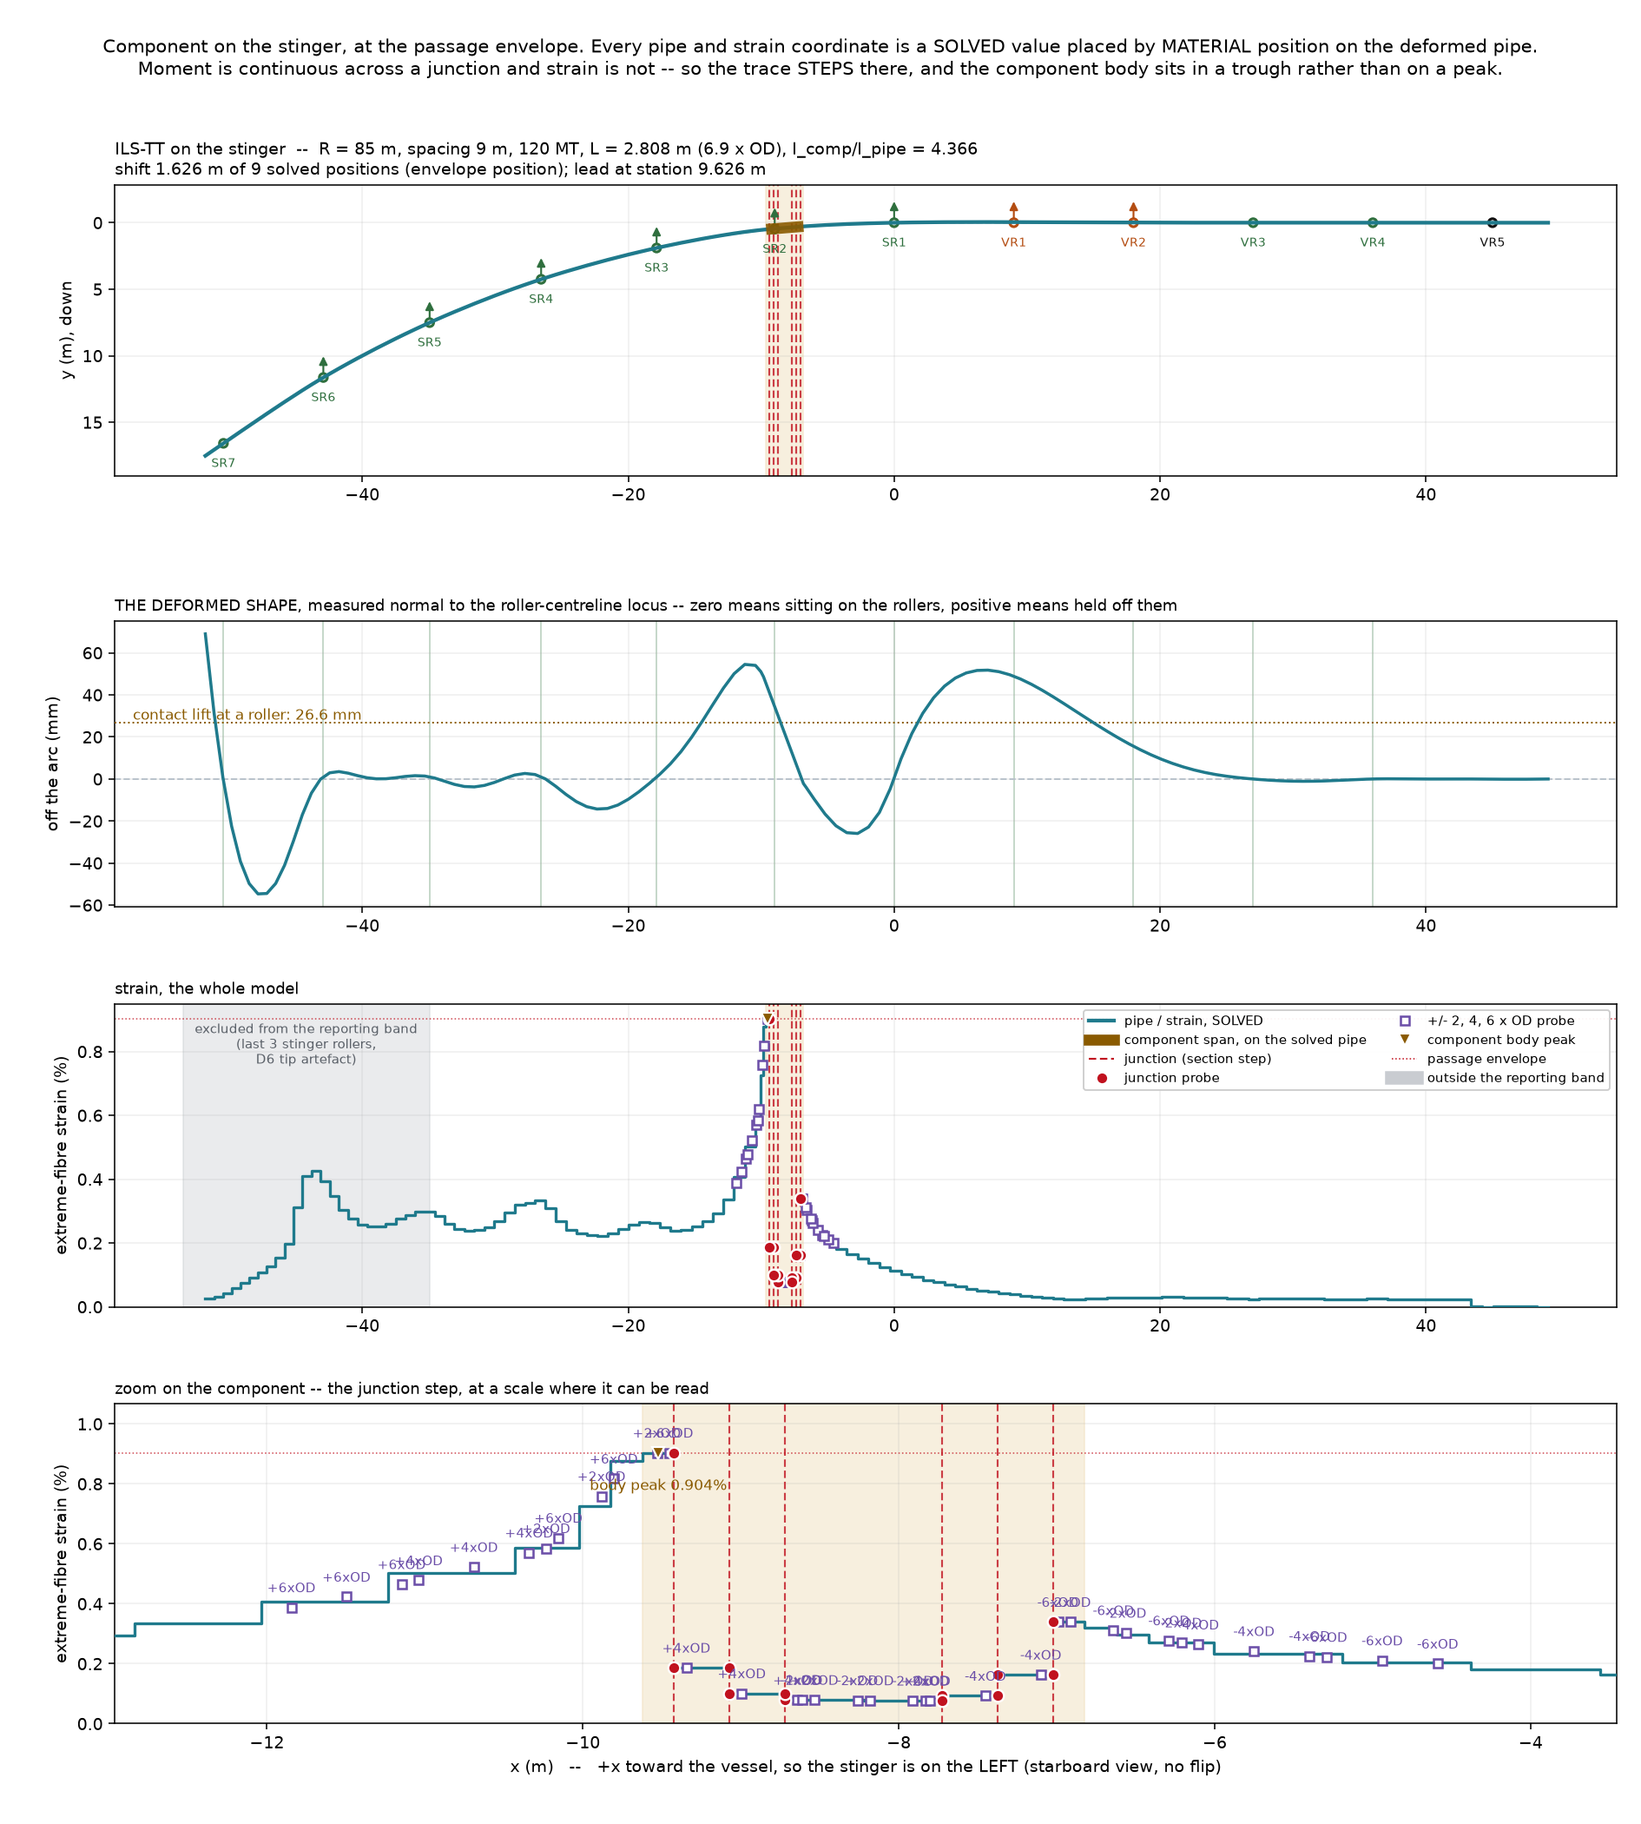
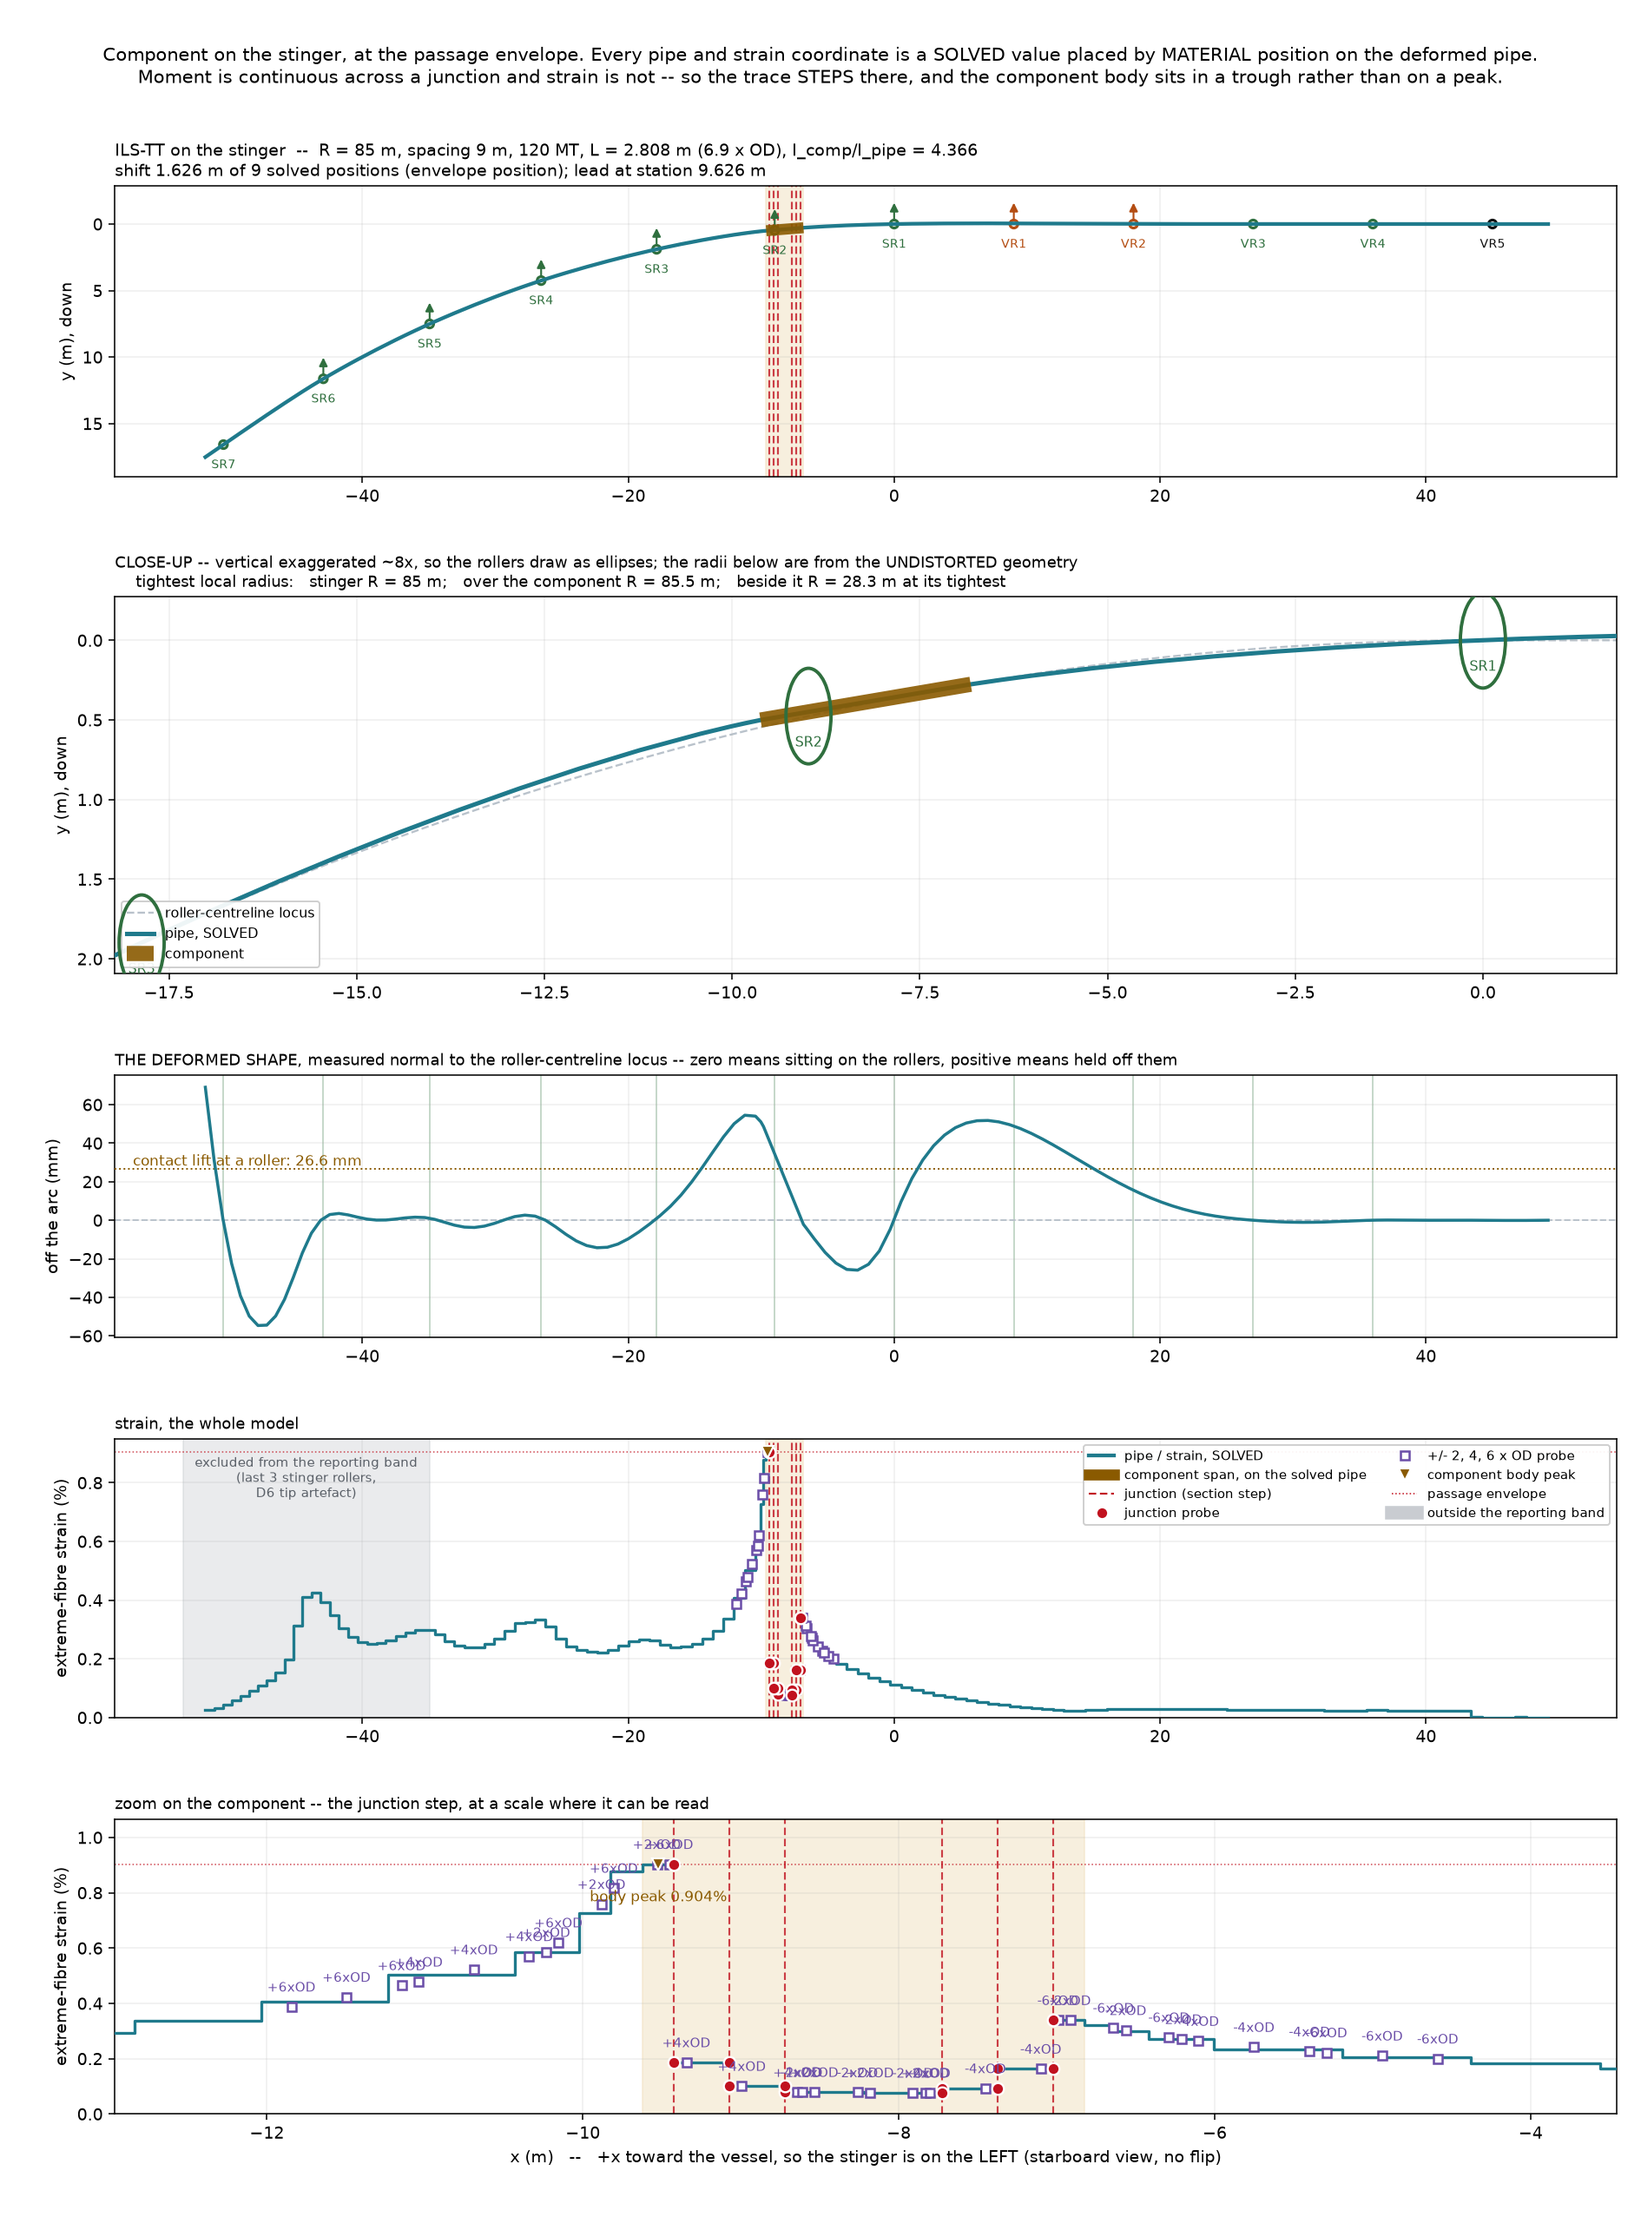
A close-up panel: the component, the pipe and the rollers beside it
Shows the local change in curvature a component makes, which no other panel
could: the full-stinger view spans 20 m of drop and the strain panels are
not geometry at all.

TRUE SCALE CANNOT SHOW THIS, and pretending otherwise was the first attempt.
The stinger's own curvature is 1/85 per metre, so over a 20 m window the
pipe departs from a straight line by about 0.6 m and the local change on top
is centimetres -- drawn equal-aspect that is a couple of pixels, and the
panel is honest and useless. The vertical is therefore exaggerated, the
factor is STATED on the panel, and the panel says the rollers consequently
draw as ellipses so nobody reads them as oval.

THE NUMBERS COME FROM THE UNDISTORTED GEOMETRY. Local radius is MENGER
curvature through consecutive deformed nodes -- the circle through three
points -- so it is purely geometric, owes nothing to the constitutive law,
and can be set against the stinger's own R directly. Computing it from the
moment instead would be right only while the pipe is elastic, and the
interesting cases are not. A reader can take the shape as indicative and the
radii as measured.

WHAT IT MEASURES (T025), tightest local radius over the component against
the pipe beside it, on an 85 m stinger:

    GD-TP   I/Ip 2.36    67.1 m  vs  47.4 m
    GD-TT   I/Ip 4.37    85.5 m  vs  28.3 m
    GD-SH   I/Ip 1.00    33.8 m  vs  45.5 m

STIFFENING AND LIFTING ACT IN OPPOSITE SENSES. A stiff body stays flatter
[…]

diff --git a/tools/plot_stinger.py b/tools/plot_stinger.py
@@ -278,6 +278,30 @@ def s_to_x(m, ms, U, shift=0.0):
     return lambda q: np.interp(q, sv, xv)
 
 
+def menger_curvature(xs, ys):
+    """Discrete curvature through each consecutive triple, 1/m.
+
+    The circle through three points, `4*Area / (|a||b||c|)` -- GEOMETRIC, so
+    it owes nothing to the constitutive law and can be compared against the
+    stinger's own 1/R directly. Computing it from the moment instead would
+    only be right while the pipe is elastic, and the interesting cases are
+    not.
+    """
+    import math
+    out = [float('nan')]
+    for i in range(1, len(xs) - 1):
+        ax_, ay_ = xs[i - 1], ys[i - 1]
+        bx_, by_ = xs[i], ys[i]
+        cx_, cy_ = xs[i + 1], ys[i + 1]
+        a = math.hypot(bx_ - ax_, by_ - ay_)
+        b = math.hypot(cx_ - bx_, cy_ - by_)
+        c = math.hypot(cx_ - ax_, cy_ - ay_)
+        area2 = abs((bx_ - ax_) * (cy_ - ay_) - (by_ - ay_) * (cx_ - ax_))
+        out.append(2.0 * area2 / (a * b * c) if a * b * c > 0 else float('nan'))
+    out.append(float('nan'))
+    return out
+
+
 def normal_gap(m, ms, U, scene, shift=0.0):
     """[(world x, normal gap)] -- how far the solved pipe sits OFF the arc.
 
@@ -552,9 +576,10 @@ def plot_component(c, out):
     # where it sits or shows what happens there, never both. Panels 1 and 2
     # share x and answer "where"; panel 3 has its own window and answers
     # "what", at a scale where the junction step is legible.
-    fig, (ax, dx, bx, cx) = plt.subplots(
-        4, 1, figsize=(13.5, 15.0),
-        gridspec_kw=dict(height_ratios=[1.15, 0.85, 0.9, 0.95], hspace=0.30))
+    fig, (ax, ex, dx, bx, cx) = plt.subplots(
+        5, 1, figsize=(13.5, 18.4),
+        gridspec_kw=dict(height_ratios=[1.0, 1.15, 0.8, 0.85, 0.9],
+                         hspace=0.33))
     bx.sharex(ax)
     dx.sharex(ax)
 
@@ -624,7 +649,81 @@ def plot_component(c, out):
         f'({c["note"]}); lead at station {pos.s_lead:.3f} m',
         fontsize=10, loc='left')
 
-    # ---- panel 2: the deformed shape, where it can be seen ----------------
+    # ---- panel 2: the close-up, with the vertical EXAGGERATED and said so -
+    # TRUE SCALE CANNOT SHOW THIS. The stinger's own curvature is 1/85 per
+    # metre: over a 20 m window the pipe departs from a straight line by
+    # about 0.6 m, and the local change a component makes to it is a few
+    # centimetres on top. Drawn equal-aspect that is a couple of pixels, so
+    # the panel would be honest and useless.
+    #
+    # So the vertical is stretched and the factor is STATED on the panel,
+    # which is the ordinary engineering device -- and the curvature numbers
+    # in the title are computed from the UNDISTORTED geometry, so the
+    # quantitative answer owes nothing to the drawing. A reader can take the
+    # shape as indicative and the radii as measured.
+    win = max(10.0, 1.6 * L)
+    x_mid = fx(s_c)
+    lo_x, hi_x = x_mid - win, x_mid + win
+    ss2 = np.linspace(max(0.0, sc.path.theta(0.0)), 1.0, 2)   # placeholder
+    arc_s = np.linspace(min(t.s_arc for t in sc.stations),
+                        max(t.s_arc for t in sc.stations), 1200)
+    axy = [sc.path.position(v) for v in arc_s]
+    ex.plot([q[0] for q in axy], [q[1] for q in axy], color='#b9c2cb',
+            lw=1.2, ls='--', zorder=1, label='roller-centreline locus')
+    ex.plot(px, py, color='#1f7a8c', lw=2.6, zorder=5, label='pipe, SOLVED')
+    if seg:
+        ex.plot(sx, sy, color='#8a5a00', lw=9.0, solid_capstyle='butt',
+                zorder=6, alpha=0.9, label='component')
+    for st_ in sc.stations:
+        if not (lo_x - 2 <= st_.x <= hi_x + 2):
+            continue
+        on = active.get(st_.name, True)
+        col = ('#2f6f3e' if st_.role is StationRole.CONTACT and on
+               else '#b44d12' if st_.role is StationRole.CONTACT
+               else '#111111')
+        ex.add_patch(Circle((st_.x, st_.y), st_.radius, facecolor='none',
+                            edgecolor=col, lw=2.0, zorder=7))
+        ex.annotate(st_.name, (st_.x, st_.y), textcoords='offset points',
+                    xytext=(0, -18), ha='center', fontsize=8, color=col)
+    ex.set_xlim(lo_x, hi_x)
+    inwin = [(q, w) for q, w in zip(px, py) if lo_x <= q <= hi_x]
+    if inwin:
+        ys = [w for _q, w in inwin]
+        pad = max(0.08 * (max(ys) - min(ys)), 0.25)
+        ex.set_ylim(max(ys) + pad, min(ys) - pad)
+        exag = (hi_x - lo_x) / max(1e-9, (max(ys) - min(ys)) + 2 * pad)
+    else:
+        exag = 1.0
+    if not inwin:
+        ex.invert_yaxis()
+    ex.grid(alpha=0.2)
+    ex.set_ylabel('y (m), down')
+    ex.legend(fontsize=8, loc='lower left', framealpha=0.93)
+
+    # LOCAL RADIUS OF CURVATURE, read off the deformed pipe itself and set
+    # against the stinger's own R. This is the number the close-up exists to
+    # show: what the component does to the curvature beside it.
+    kap = menger_curvature(px, py)
+    inside, outside = [], []
+    for xq, k in zip(px, kap):
+        if k != k or k <= 0:
+            continue
+        if seg and min(sx) <= xq <= max(sx):
+            inside.append(k)
+        elif lo_x <= xq <= hi_x:
+            outside.append(k)
+    bits = [f'stinger R = {sc.path.R:.0f} m']
+    if inside:
+        bits.append(f'over the component R = {1 / max(inside):.1f} m')
+    if outside:
+        bits.append(f'beside it R = {1 / max(outside):.1f} m at its tightest')
+    ex.set_title(
+        f'CLOSE-UP -- vertical exaggerated ~{exag:.0f}x, so the rollers draw '
+        f'as ellipses; the radii below are from the UNDISTORTED geometry\n'
+        f'    tightest local radius:   ' + ';   '.join(bits),
+        fontsize=9.5, loc='left')
+
+    # ---- panel 3: the deformed shape, where it can be seen ----------------
     gaps = normal_gap(m, ms, U, sc, sh)
     gx = [q[0] for q in gaps]
     gy = [1000.0 * q[1] for q in gaps]
